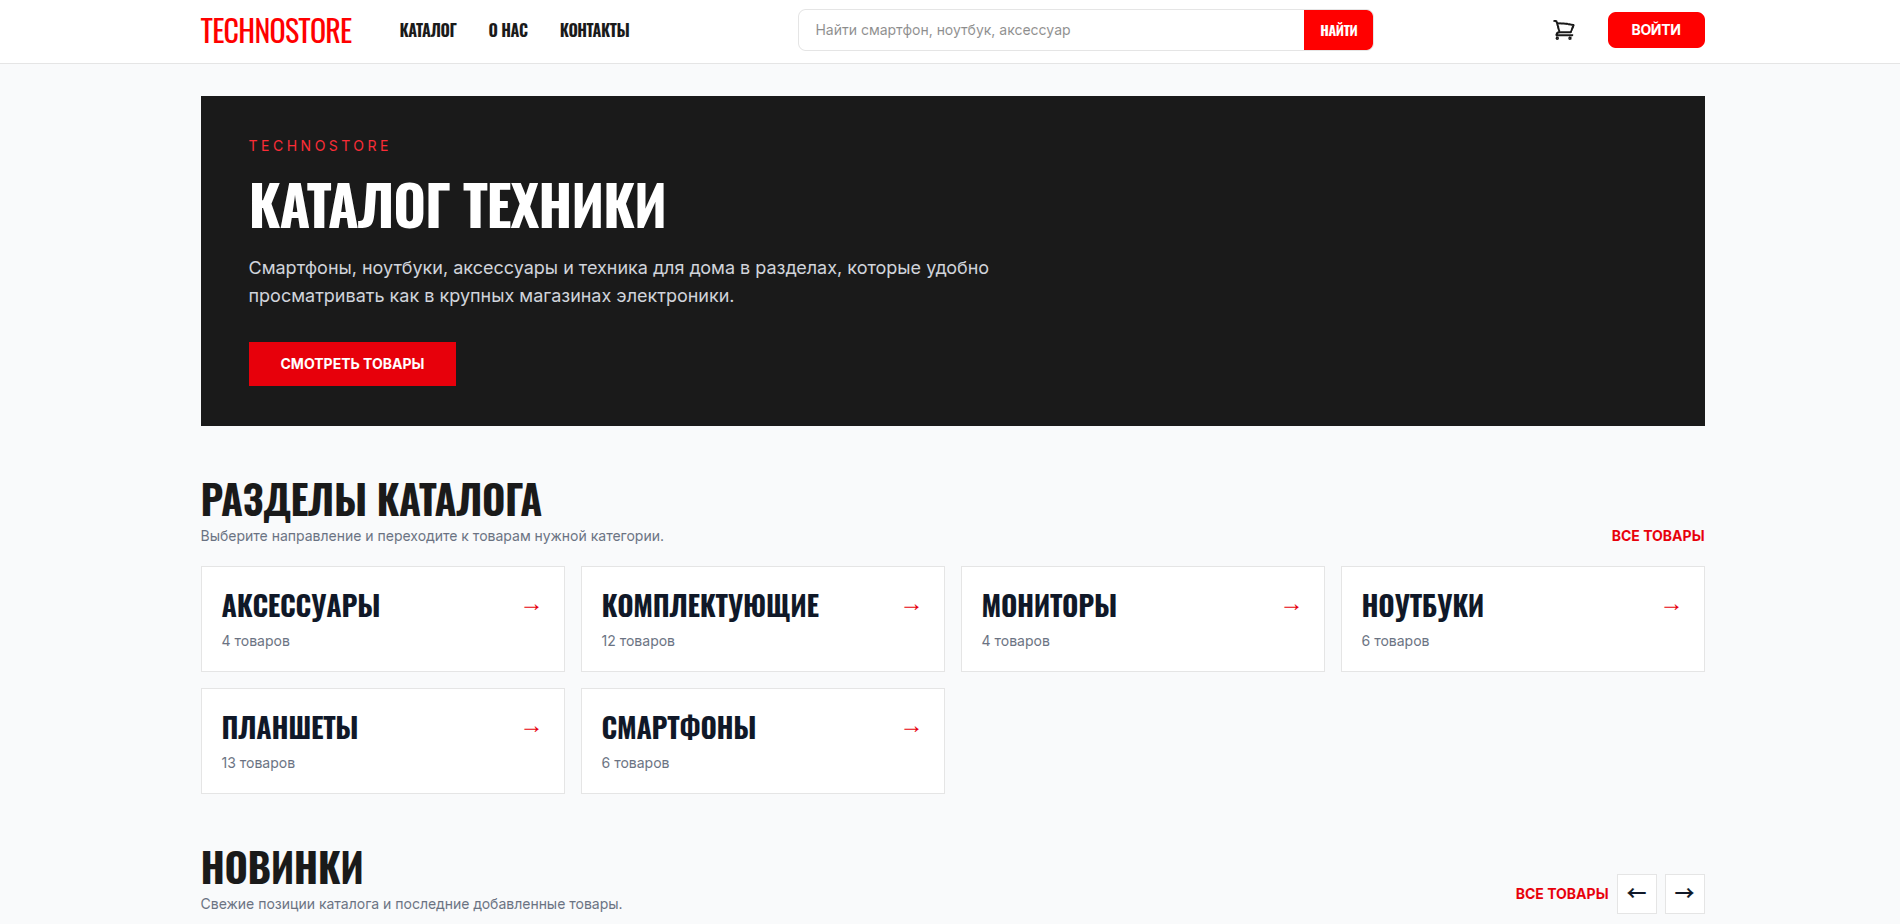
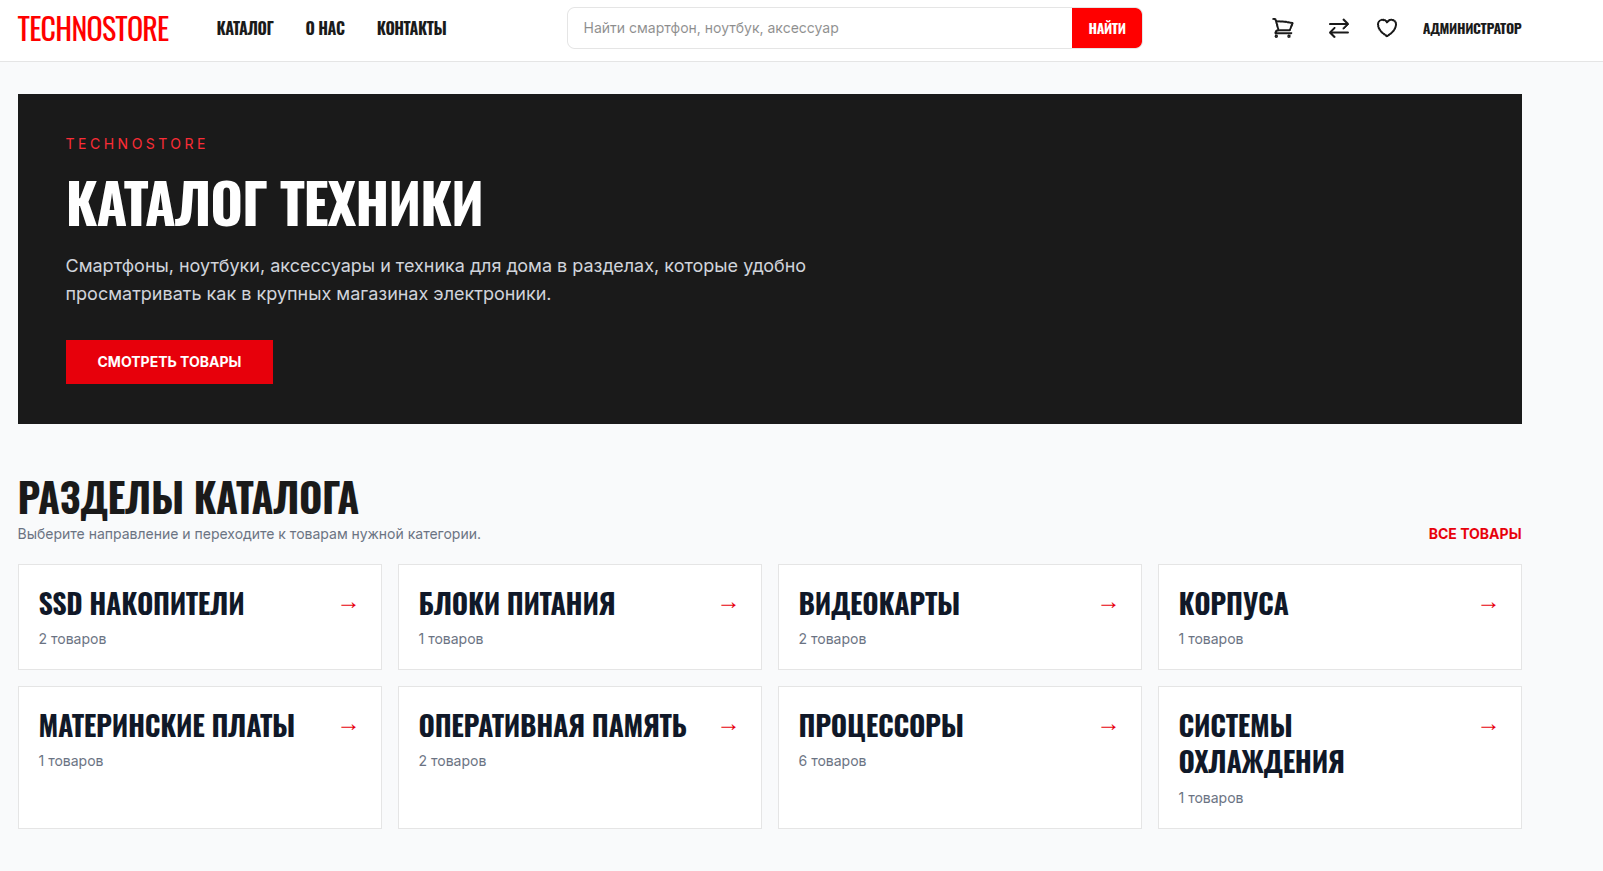
docs:update docs

diff --git a/docs/create_chapter3_variant1.js b/docs/create_chapter3_variant1.js
@@ -1,0 +1,219 @@
+const fs = require('fs');
+const {
+  Document, Packer, Paragraph, TextRun, Table, TableRow, TableCell,
+  AlignmentType, BorderStyle, WidthType, ShadingType, PageBreak,
+  PageNumber, Footer
+} = require('docx');
+
+const out = '/data/Projects/diplom/docs/thesis/3 глава 1 вариант.docx';
+const W = 9355;
+const border = { style: BorderStyle.SINGLE, size: 4, color: '000000' };
+const borders = { top: border, bottom: border, left: border, right: border };
+const body = [];
+
+function runs(text, opts = {}) {
+  const parts = String(text).split(/(\*[^*]+\*)/g).filter(Boolean);
+  return parts.map(part => new TextRun({
+    text: part.startsWith('*') && part.endsWith('*') ? part.slice(1, -1) : part,
+    italics: part.startsWith('*') && part.endsWith('*'),
+    font: 'Times New Roman', size: opts.size || 28, bold: opts.bold || false,
+    color: opts.color
+  }));
+}
+function p(text, opts = {}) {
+  body.push(new Paragraph({
+    alignment: opts.align || AlignmentType.JUSTIFIED,
+    spacing: { line: opts.line || 360, before: opts.before || 0, after: opts.after || 0 },
+    indent: opts.noIndent ? undefined : { firstLine: 709 },
+    pageBreakBefore: opts.pageBreakBefore || false,
+    keepNext: opts.keepNext || false,
+    children: runs(text, opts)
+  }));
+}
+function h1(text) { p(text.toUpperCase(), { align: AlignmentType.CENTER, bold: true, noIndent: true, after: 400, pageBreakBefore: true, keepNext: true }); }
+function h2(text) { p(text, { align: AlignmentType.CENTER, bold: true, noIndent: true, before: 240, after: 160, keepNext: true }); }
+function todo(text) { p(`TODO: ${text}`, { color: 'C00000' }); }
+function caption(text) { p(text, { align: AlignmentType.CENTER, noIndent: true, size: 24, line: 240, before: 120, after: 120 }); }
+function table(title, headers, rows, widths) {
+  caption(title);
+  const makeCell = (text, width, head = false) => new TableCell({
+    width: { size: width, type: WidthType.DXA }, borders,
+    shading: head ? { fill: 'E7E6E6', type: ShadingType.CLEAR } : undefined,
+    margins: { top: 70, bottom: 70, left: 90, right: 90 },
+    children: [new Paragraph({ alignment: head ? AlignmentType.CENTER : AlignmentType.LEFT, spacing: { line: 240 }, children: runs(text, { size: 24, bold: head }) })]
+  });
+  body.push(new Table({
+    width: { size: W, type: WidthType.DXA }, columnWidths: widths,
+    rows: [new TableRow({ tableHeader: true, children: headers.map((x, i) => makeCell(x, widths[i], true)) }), ...rows.map(r => new TableRow({ children: r.map((x, i) => makeCell(x, widths[i])) }))]
+  }));
+  p('', { noIndent: true, line: 240 });
+}
+
+h1('3 Реализация и тестирование программного продукта');
+h2('3.1 Описание реализации');
+p('Интернет-магазин электроники «TechnoStore» реализован как клиент-серверное веб-приложение на базе *Next.js*. В рамках одного проекта объединены пользовательские страницы, административная панель и серверные обработчики запросов. Такой способ организации позволил сохранить единый набор типов данных и сократить количество промежуточных преобразований между интерфейсом и серверной частью. Компоненты обмениваются данными по протоколу *HTTP* в формате *JSON*, а репозитории обращаются к реляционным данным через *Prisma* и систему управления базами данных *PostgreSQL* [6, 13, 14, 16, 17].');
+p('Реализация разделена на несколько уровней. Маршруты приложения принимают запросы и формируют ответы, сервисный слой выполняет бизнес-операции, а репозитории изолируют обращения к базе данных. Клиентские компоненты отвечают за интерактивные действия, которые невозможно выполнить только на сервере: изменение корзины без перезагрузки страницы, добавление товара в избранное и сравнение, отображение уведомлений. Состояния корзины, избранного и сравнения синхронизируются через хранилища *Zustand*.');
+todo('Вставить рисунок 3.1 — схема взаимодействия клиента, Route Handlers, сервисного слоя, репозиториев, PostgreSQL и Redis');
+caption('Рисунок 3.1 – Схема взаимодействия компонентов TechnoStore');
+p('Публичная часть приложения предоставляет каталог, поиск, страницы категорий и подробные карточки товаров. Каталог принимает параметры категории, бренда, диапазона цены, наличия, сортировки и поисковой строки. Для загрузки следующей части выдачи применяется курсорная пагинация. Курсор кодируется в формате *base64url* и содержит значения сортировки и идентификатор последней полученной записи. Такой подход сохраняет устойчивый порядок выдачи при добавлении новых товаров и не требует пропуска большого количества строк базы данных.');
+p('Характеристики товаров хранятся в поле типа *JSONB*. Это решение позволяет представлять разные наборы свойств для ноутбуков, смартфонов, мониторов и других категорий без создания отдельной таблицы для каждого типа техники. На клиенте те же данные используются для построения таблицы сравнения. В список сравнения разрешено добавить не более четырёх товаров одной категории, поэтому строки таблицы остаются содержательно сопоставимыми. Отличающиеся значения выделяются визуально, а режим «Только отличия» помогает быстрее найти значимые различия.');
+p('При добавлении товара в корзину сервер проверяет существование активного товара и допустимое количество. Корзина закреплена за авторизованным пользователем и хранится в базе данных, поэтому её содержимое не зависит от конкретного браузера. На странице оформления заказа итоговая стоимость и скидка рассчитываются сервером. Клиент передаёт данные получателя и, при наличии, код промокода, но не считается доверенным источником цены.');
+p('Создание заказа — критическая бизнес-операция. Оно выполняется в транзакции: загружается корзина, проверяется доступность товаров, повторно рассчитывается промокод, условно уменьшаются остатки, создаются заказ и его позиции, после чего корзина очищается. Уменьшение каждого остатка использует условие stock >= quantity. Если параллельный запрос уже приобрёл последние доступные единицы товара, операция не изменяет запись, а вся транзакция отменяется. Это предотвращает продажу количества, которого фактически нет на складе.');
+p('Для защиты от повторной отправки формы оформления применяется ключ идемпотентности. Вместе с ним сохраняется отпечаток входных данных. Повторный запрос с тем же ключом и тем же содержимым получает ранее созданный заказ; использование ключа с изменёнными данными отклоняется. Данное решение особенно важно при нестабильном соединении, когда пользователь или браузер может повторить запрос, не получив первый ответ.');
+p('Покупатель может отменить заказ, пока он находится в статусе «Новый». Смена статуса, возврат остатков и уменьшение счётчика использований промокода выполняются в одной транзакции. Повтор заказа работает иначе: текущая корзина заменяется доступными позициями выбранного заказа после проверки активности товаров и их остатка. Исторические цены при этом не переносятся, поскольку новая покупка должна учитывать текущую стоимость.');
+p('Для товаров, категорий и брендов используется мягкое удаление: вместо физического удаления заполняется дата deletedAt. Публичные запросы исключают такие записи, однако связи с ранее оформленными заказами сохраняются. Это особенно важно для корректного отображения истории покупок. Промокоды отключаются через признак активности по той же причине.');
+p('Часто запрашиваемые данные каталога кэшируются в *Redis*: дерево категорий, бренды, карточки товаров, списки товаров и параметры фильтров. Отказ кэша не должен останавливать магазин. Если сервис *Redis* временно недоступен, приложение загружает данные из основной базы. После административного изменения товара или справочника связанные ключи кэша инвалидируются. Одноразовые коды и ограничения частоты запросов, напротив, требуют доступного хранилища, поскольку относятся к безопасности входа.');
+p('Административная панель поддерживает управление товарами, категориями, брендами, заказами, отзывами и промокодами. Перед созданием или изменением товара сервер убеждается, что выбранные категория и бренд активны. Для дерева категорий проверяется отсутствие циклических связей. Категория не удаляется при наличии активных дочерних категорий или товаров, а бренд — при наличии активных товаров. Эти граничные условия не позволяют получить противоречивую структуру каталога.');
+p('Значимые административные операции фиксируются в журнале действий. Для изменения сущности сохраняются значения до и после операции, а для статуса заказа — предыдущий и новый статусы. Ошибка записи журнала не прерывает основную операцию, но регистрируется с контекстом. Журнал не удаляется вместе с учётной записью администратора, поэтому история изменений остаётся доступной для последующего анализа.');
+table('Таблица 3.1 – Основные группы серверных маршрутов', ['Группа', 'Примеры маршрутов', 'Назначение'], [
+ ['Авторизация', 'POST /api/auth/send-code; POST /api/auth/verify-code', 'Отправка и проверка одноразового кода, создание сессии'],
+ ['Каталог', 'GET /api/products; GET /api/products/filters', 'Поиск, фильтрация, сортировка и курсорная пагинация'],
+ ['Корзина и заказ', 'GET /api/cart; POST /api/orders', 'Управление корзиной и транзакционное оформление заказа'],
+ ['Вовлечение', 'GET /api/favorites; GET /api/compare; POST /api/products/[id]/reviews', 'Избранное, сравнение товаров и отзывы'],
+ ['Администрирование', '/api/admin/*', 'Управление сущностями магазина и получение статистики']
+], [1800, 3450, 4105]);
+p('Ошибки серверных маршрутов имеют единый формат с текстом, машинным кодом и необязательными деталями. Входные параметры маршрутов, строка запроса и тело запроса проверяются схемами *Zod*. Известные ошибки приложения преобразуются в соответствующие коды состояния *HTTP*, а неизвестные регистрируются на сервере и возвращаются клиенту без раскрытия внутренних подробностей. В результате интерфейс показывает понятное сообщение, а разработчику проще найти источник ошибки.');
+
+h2('3.2 Описание пользовательского интерфейса');
+p('Пользовательский интерфейс выполнен в минималистичном стиле интернет-магазина электроники. Основу цветовой схемы составляют белый фон, тёмный текст и красный акцент для основных действий. Для второстепенных элементов используются серые оттенки, состояние наличия обозначается зелёным цветом, а ошибки и опасные операции — красным. Интерфейс адаптируется к ширине экрана: сетка каталога содержит четыре столбца на широком экране, два на планшете и один на мобильном устройстве.');
+p('Главная страница выполняет роль витрины и знакомит посетителя с основным предложением магазина. На ней размещены главный рекламный блок, переход в каталог, популярные категории и преимущества покупки. Верхняя панель обеспечивает быстрый доступ к поиску, корзине, избранному, сравнению, профилю и входу. Поиск выводит подсказки после задержки ввода, отменяет устаревший запрос и поддерживает управление с клавиатуры.');
+todo('Вставить screenshots/main.png');
+caption('Рисунок 3.2 – Главная страница интернет-магазина');
+p('Страница каталога разделена на область фильтров и сетку товаров. Покупатель может выбрать категорию, бренд, диапазон цены, наличие и способ сортировки. Каждая карточка содержит изображение, название, цену, рейтинг, состояние наличия и кнопки пользовательских действий. При загрузке следующей части каталога ранее полученные карточки сохраняются на странице. Для пустой выборки, загрузки и ошибки предусмотрены самостоятельные состояния интерфейса.');
+todo('Вставить screenshots/catalog.png');
+caption('Рисунок 3.3 – Каталог товаров с фильтрами');
+p('Подробная страница товара объединяет галерею, цену, описание, характеристики, доступный остаток, рейтинг и отзывы. Добавление в корзину, избранное и сравнение выполняется без перехода на отдельную страницу. Если действие требует учётной записи, посетитель направляется на форму входа, а после успешного подтверждения номера возвращается к исходному маршруту.');
+todo('Вставить screenshots/product-card.png');
+caption('Рисунок 3.4 – Подробная страница товара');
+p('Корзина показывает выбранные позиции, цену, количество, доступный остаток, промежуточную стоимость и общую сумму. Количество изменяется непосредственно в строке товара. Отдельные действия позволяют удалить позицию, очистить корзину или перейти к оформлению. Интерфейс обновляется сразу, но окончательная проверка количества всегда выполняется сервером.');
+todo('Вставить screenshots/cart.png');
+caption('Рисунок 3.5 – Корзина покупателя');
+p('Форма оформления заказа содержит имя получателя, телефон, адрес, комментарий и поле промокода. Справа расположен итоговый блок со списком товаров, суммой до скидки, размером скидки и суммой к оплате. Выбран способ оплаты наличными при получении. После успешного оформления пользователь переходит к деталям созданного заказа, а локальное состояние корзины очищается.');
+todo('Вставить screenshots/checkout.png');
+caption('Рисунок 3.6 – Оформление заказа');
+p('Личный кабинет включает профиль и историю заказов. В профиле редактируются имя и адрес, который затем используется для предварительного заполнения формы заказа. В истории отображаются номер, дата, статус, состав и сумма каждого заказа. На странице деталей доступны отмена нового заказа и повтор заказа. Эти действия показываются только тогда, когда соответствующая операция допустима.');
+todo('Вставить screenshots/orders.png и screenshots/profile.png');
+caption('Рисунок 3.7 – История заказов и профиль покупателя');
+p('Вход и регистрация построены вокруг подтверждения номера телефона одноразовым кодом. В демонстрационном режиме код отображается в интерфейсе, что позволяет проверить полный сценарий без платного поставщика сообщений. Форма сообщает об ошибочном формате номера, неверном коде и превышении лимита попыток.');
+todo('Вставить screenshots/login.png и screenshots/register.png');
+caption('Рисунок 3.8 – Формы входа и регистрации');
+p('Административная панель визуально отделена от публичной части и содержит боковую навигацию. Дашборд показывает количество активных товаров, заказов, пользователей, выручку по доставленным заказам и последние заказы. Табличные разделы дают доступ к созданию и редактированию сущностей, фильтрации заказов, модерации отзывов и управлению промокодами. Журнал действий отображает администратора, время, действие, сущность и технические данные операции.');
+todo('Вставить screenshots/admin.png, screenshots/admin-products.png и screenshots/admin-logs.png');
+caption('Рисунок 3.9 – Административная панель и журнал действий');
+p('Для неизвестного маршрута разработана отдельная страница ошибки 404 с понятным сообщением и переходом на главную страницу. Такое состояние завершает навигационный сценарий и не оставляет пользователя на стандартной технической странице среды выполнения.');
+todo('Вставить screenshots/404.png');
+caption('Рисунок 3.10 – Страница отсутствующего ресурса');
+
+h2('3.3 Полученные результаты и их анализ');
+p('Результатом разработки является работоспособное веб-приложение интернет-магазина электроники, охватывающее полный цикл покупки: поиск товара, изучение характеристик, авторизацию, формирование корзины, применение промокода, оформление и последующее управление заказом. Для администратора реализован отдельный защищённый контур управления ассортиментом и операциями магазина.');
+table('Таблица 3.2 – Реализованные возможности по ролям', ['Роль', 'Основные возможности', 'Ограничения доступа'], [
+ ['Посетитель', 'Главная страница, каталог, поиск, категории, карточки товаров', 'Не может использовать персональные данные и оформлять заказ'],
+ ['Покупатель', 'Корзина, оформление, профиль, заказы, избранное, сравнение, отзывы', 'Работает только со своими данными и заказами'],
+ ['Администратор', 'CRUD каталога, заказы, отзывы, промокоды, пользователи, журнал', 'Доступ подтверждается актуальной ролью из базы данных']
+], [1600, 5000, 2755]);
+p('Всего приложение содержит публичные, защищённые пользовательские и административные страницы, а также более пятидесяти обработчиков и страниц, формируемых статически или динамически. Проверенная производственная сборка сформировала 55 маршрутов. Система поддерживает древовидные категории, динамические характеристики, четыре варианта сортировки каталога, два типа скидок и шесть статусов заказа.');
+p('Практическая ценность результата связана не с отдельной витриной, а с согласованностью пользовательских и административных процессов. Например, изменение статуса заказа подчиняется допустимым переходам и фиксируется в журнале; отмена возвращает остатки и использование промокода; мягкое удаление не разрушает историю. Такие связи уменьшают вероятность расхождения данных при повседневной эксплуатации.');
+p('Выбранная архитектура допускает дальнейшее развитие без замены основных модулей. К возможным направлениям относятся подключение онлайн-оплаты, расширение автоматизированного тестирования, строгая политика защиты межсайтовых запросов, мониторинг производственной среды, мультиязычность и расширенная аналитика. При этом текущая версия уже решает поставленную задачу локального интернет-магазина с оплатой наличными при получении.');
+
+h2('3.4 Методы и средства защиты программного продукта');
+p('Защита TechnoStore строится на нескольких независимых уровнях. Пользователь идентифицируется по номеру телефона, а владение номером подтверждается шестизначным одноразовым кодом. Код хранится не в открытом виде: перед сохранением вычисляется хэш *SHA-256*, а сравнение выполняется функцией с постоянным временем. После успешной проверки использованный код удаляется. Ограничение частоты отправки и проверки по телефону и сетевому адресу снижает возможность перебора и злоупотребления отправкой сообщений.');
+p('После входа сервер создаёт подписанный токен *JWT* и помещает его в cookie с признаками httpOnly, sameSite strict и secure в производственной среде. Признак httpOnly препятствует чтению токена клиентским сценарием, а sameSite ограничивает его автоматическую отправку в межсайтовом контексте [12, 15]. Время жизни сессии составляет 30 дней. Выход из учётной записи удаляет cookie.');
+p('Разграничение доступа реализовано для трёх ролей: посетителя, покупателя и администратора. Защищённые страницы проверяются промежуточным обработчиком, а серверные маршруты дополнительно вызывают проверки авторизации. Для административных операций роль загружается из базы данных, а не принимается только из токена. Поэтому изменение роли начинает действовать даже при наличии ранее выданной сессии.');
+p('Все изменяющие запросы проходят проверку источника. Запрос с посторонним заголовком Origin или Referer отклоняется. Для совместимости с серверными клиентами запрос без обоих заголовков допускается, что является осознанным ограничением текущей версии. В производственной среде ответы дополняются заголовками защиты от определения типа содержимого, встраивания страницы во фрейм и избыточной передачи источника перехода; также включается *HSTS*.');
+p('Серверная валидация применяется независимо от элементов управления на клиенте. Проверяются идентификаторы, параметры пагинации, диапазоны цены, телефон, одноразовый код, поля заказа и данные административных форм. Работа через *Prisma* уменьшает необходимость ручного формирования SQL-запросов. На уровне базы данных дополнительно заданы внешние ключи, уникальные ограничения и проверки неотрицательных цены и остатка [15–17].');
+p('Защита целостности бизнес-данных обеспечивается транзакциями, условными обновлениями и идемпотентностью. Транзакция не допускает частично созданный заказ, условие по остатку предотвращает перепродажу, а условие по текущему статусу защищает заказ от конфликтующих переходов. Мягкое удаление и административный аудит сохраняют сведения, необходимые для расследования спорных изменений.');
+table('Таблица 3.3 – Реализованные механизмы защиты', ['Механизм', 'Назначение'], [
+ ['JWT в httpOnly cookie', 'Снижает риск доступа к токену из клиентского JavaScript'],
+ ['Проверка актуальной роли', 'Не позволяет использовать устаревшие полномочия из токена'],
+ ['Zod-валидация', 'Отклоняет некорректные параметры и тела запросов'],
+ ['Проверка источника запроса', 'Отклоняет изменяющие запросы с посторонних сайтов'],
+ ['Ограничение частоты запросов и хэширование SMS-кодов', 'Ограничивает перебор и не хранит код открытым'],
+ ['Транзакции и идемпотентность', 'Защищает оформление заказа от частичной и повторной записи'],
+ ['Защитные HTTP-заголовки', 'Усиливает защиту браузерного взаимодействия'],
+ ['Мягкое удаление и аудит', 'Сохраняет историю сущностей и административных действий']
+], [3100, 6255]);
+
+h2('3.5 Тестирование и оценка надежности программного продукта');
+p('Проверка программного продукта проводилась на трёх уровнях: статический анализ и модульные тесты, производственная сборка, ручное прохождение пользовательских и административных сценариев. Такой порядок позволяет сначала обнаружить локальные ошибки типов и функций, затем проверить совместимость всех модулей при сборке и после этого оценить систему с позиции пользователя.');
+table('Таблица 3.4 – Результаты автоматических проверок', ['Проверка', 'Средство', 'Результат'], [
+ ['Типизация', 'TypeScript compiler', 'Пройдена, ошибок типов нет'],
+ ['Статический анализ', 'ESLint', 'Пройден, ошибок правил нет'],
+ ['Модульные тесты', 'Bun test', '29 тестов пройдено, 0 ошибок'],
+ ['Общая проверка', 'bun run check', 'Пройдена'],
+ ['Производственная сборка', 'next build', 'Пройдена, сформировано 55 маршрутов']
+], [2500, 3000, 3855]);
+p('Модульные тесты проверяют кодирование и декодирование курсора, безопасный адрес возврата после входа, проверку источника запроса, единое преобразование серверных ошибок и переходы статусов заказа. В тестах учитываются как допустимые значения, так и граничные случаи: курсор старого формата, внешний адрес возврата, посторонний Origin, неизвестная серверная ошибка и попытка изменить завершённый заказ.');
+table('Таблица 3.5 – Результаты ручного тестирования', ['№', 'Сценарий', 'Ожидаемый результат', 'Статус'], [
+ ['1', 'Вход через демонстрационный SMS-код', 'Пользователь авторизован и возвращён на исходную страницу', 'Пройден'],
+ ['2', 'Каталог, фильтрация и продолжение выдачи', 'Выдача обновляется, ранее загруженные товары сохраняются', 'Пройден'],
+ ['3', 'Добавление товара в корзину', 'Товар появляется в корзине', 'Пройден'],
+ ['4', 'Изменение количества', 'Количество и итоговая сумма обновляются', 'Пройден'],
+ ['5', 'Применение промокода', 'Скидка отображается в оформлении заказа', 'Пройден'],
+ ['6', 'Оформление заказа', 'Создаётся один заказ, корзина очищается', 'Пройден'],
+ ['7', 'Просмотр и отмена заказа', 'Детали доступны, допустимый заказ отменяется', 'Пройден'],
+ ['8', 'Повтор заказа', 'Доступные товары добавляются в корзину', 'Пройден'],
+ ['9', 'Избранное, сравнение и отзыв', 'Персональные действия выполняются после входа', 'Пройден'],
+ ['10', 'Административный CRUD', 'Администратор управляет товарами, категориями и брендами', 'Пройден'],
+ ['11', 'Изменение статуса заказа', 'Разрешённый переход применяется и записывается в аудит', 'Пройден'],
+ ['12', 'Журнал действий', 'Отображаются действие, администратор, сущность, время и данные', 'Пройден']
+], [450, 2600, 4750, 1555]);
+p('В процессе разработки были обнаружены и устранены дефекты, затрагивающие надёжность. Первоначальный курсор мог некорректно разделяться при наличии двоеточия в значении; формат был заменён на сериализацию *JSON* и *base64url* с поддержкой ранее созданных курсоров. Повторная отправка оформления могла создать дублирующий заказ, поэтому были введены ключ идемпотентности, отпечаток данных и уникальное ограничение. Обработка конфликта уникальности была вынесена за пределы отменённой транзакции, так как после ошибки *PostgreSQL* транзакция может перейти в состояние отказа.');
+p('Также были унифицированы ответы изменяющих маршрутов, приведён к одному виду безопасный параметр возврата после входа, исключён запуск заполнения базы из команды производственной сборки и добавлен статический резервный вариант карты сайта при недоступной базе. Эти исправления уменьшают влияние сетевых повторов, ошибочной конфигурации и временной недоступности внешних ресурсов.');
+p('Надёжность кэша повышена за счёт деградации: отказ *Redis* для каталога увеличивает нагрузку на базу, но не останавливает просмотр товаров. Транзакции обеспечивают целостность заказа, а мягкое удаление сохраняет исторические связи. Вместе с тем полный набор интеграционных тестов с отдельными экземплярами *PostgreSQL* и *Redis*, автоматизированные сквозные тесты, нагрузочное тестирование и производственный мониторинг остаются направлениями дальнейшей работы.');
+
+h2('3.6 Расчет себестоимости от внедрения результатов выпускной квалификационной работы бакалавра');
+p('Себестоимость разработки рассчитана в рублях Приднестровской Молдавской Республики. Для стоимостей, обычно указываемых в долларах США, принят заданный курс: 1 доллар США равен 16 рублям ПМР. Расчёт носит учебный характер и отражает затраты на создание и подготовку первой версии продукта к внедрению.');
+p('Основную часть затрат составляет труд разработчика. Принята продолжительность 420 часов и расчётная ставка 45 рублей ПМР в час. Кроме оплаты труда учтены амортизация рабочего компьютера, электроэнергия, доступ к сети, регистрация доменного имени, резерв на отправку SMS и прочие расходы. Использование свободных тарифов Vercel, Vercel Postgres и Upstash Redis на этапе демонстрации не требует отдельной оплаты, однако для внедрения предусмотрен резерв облачных расходов.');
+table('Таблица 3.6 – Расчёт затрат на разработку', ['Статья затрат', 'Расчёт', 'Сумма, руб. ПМР'], [
+ ['Труд разработчика', '420 ч × 45 руб./ч', '18 900'],
+ ['Амортизация компьютера', 'Расчётная доля за период разработки', '1 200'],
+ ['Электроэнергия', '0,15 кВт × 420 ч × 1,20 руб./кВт·ч', '76'],
+ ['Доступ к сети Интернет', '4 месяца × 120 руб.', '480'],
+ ['Доменное имя', '20 долл. × 16 руб.', '320'],
+ ['Резерв облачной инфраструктуры', '25 долл. × 16 руб.', '400'],
+ ['Резерв SMS-сообщений', '50 долл. × 16 руб.', '800'],
+ ['Прочие расходы', 'Расчётный резерв', '500'],
+ ['Итого', '—', '22 676']
+], [3400, 3650, 2305]);
+p('Экономический эффект внедрения связан прежде всего с сокращением ручной работы сотрудника магазина. Единый каталог, серверный учёт корзин и заказов, изменение статусов, контроль остатков и журнал действий уменьшают время на повторный ввод данных и поиск информации. Для осторожной оценки принято сокращение административных затрат на 30 часов в месяц при той же расчётной стоимости часа 45 рублей ПМР.');
+p('Годовая экономия составляет 30 × 45 × 12 = 16 200 рублей ПМР. При себестоимости разработки 22 676 рублей ПМР простой срок окупаемости равен 22 676 / 16 200 × 12 ≈ 16,8 месяца. Расчёт не учитывает возможное увеличение продаж за счёт удобного каталога и оформления заказа, поэтому полученная оценка является консервативной.');
+table('Таблица 3.7 – Оценка экономического эффекта', ['Показатель', 'Значение'], [
+ ['Себестоимость разработки', '22 676 руб. ПМР'],
+ ['Экономия рабочего времени', '30 ч в месяц'],
+ ['Расчётная стоимость часа', '45 руб. ПМР'],
+ ['Годовая экономия', '16 200 руб. ПМР'],
+ ['Простой срок окупаемости', 'около 16,8 месяца']
+], [5700, 3655]);
+
+h2('3.7 Охрана труда');
+p('При разработке и эксплуатации интернет-магазина основная работа выполняется за персональным компьютером. К вредным и опасным факторам относятся повышенная нагрузка на зрение, недостаточная освещённость рабочей зоны, статическая нагрузка на опорно-двигательный аппарат, электромагнитное воздействие оборудования и психоэмоциональное напряжение. Их учёт необходим как для разработчика, так и для сотрудника, использующего административную панель продолжительное время [8, 9].');
+p('Рабочее место должно обеспечивать устойчивое и удобное положение пользователя. Расстояние от глаз до экрана рекомендуется поддерживать в пределах 50–70 см, верхнюю границу экрана располагать на уровне глаз или немного ниже. Клавиатуру следует размещать на расстоянии 10–15 см от края стола. Монитор устанавливают так, чтобы на экране не возникали блики от окна и источников искусственного освещения.');
+table('Таблица 3.8 – Требования к организации рабочего места', ['Параметр', 'Рекомендуемое значение'], [
+ ['Расстояние от глаз до экрана', '50–70 см'],
+ ['Положение экрана', 'Перпендикулярно оконному проёму, без бликов'],
+ ['Расположение клавиатуры', '10–15 см от края стола'],
+ ['Положение пользователя', 'Опора спины, стопы на полу или подставке'],
+ ['Освещение', 'Равномерное, без резкого контраста и ослепления']
+], [4400, 4955]);
+p('Для снижения утомляемости непрерывную работу за монитором следует чередовать с перерывами. После каждого часа рекомендуется делать перерыв продолжительностью 10–15 минут, менять фокус зрения, выполнять движения глазами и разминку для шеи и спины. Помещение необходимо регулярно проветривать. Такой режим уменьшает зрительное напряжение и последствия длительной статической позы.');
+p('Помещение с вычислительной техникой относится к помещениям без повышенной опасности при условии сухого воздуха, токонепроводящих полов и исправной электропроводки. Розетки должны иметь защитное заземление. Запрещается использовать оборудование с повреждённой изоляцией, самостоятельно вскрывать блоки питания и подключать чрезмерное количество устройств через неподходящие удлинители.');
+p('Для обеспечения пожарной безопасности необходимо содержать проходы свободными, не допускать курения и использования открытого огня, следить за соответствием электропроводки фактической нагрузке. В помещении должен находиться исправный порошковый или углекислотный огнетушитель, доступный без перемещения мебели и оборудования. При появлении запаха горелой изоляции устройство следует немедленно обесточить и сообщить ответственному лицу.');
+p('Соблюдение перечисленных требований снижает вероятность профессионального утомления, поражения электрическим током и возникновения пожара. Требования охраны труда не зависят от того, выполняется ли работа с исходным кодом или через административную панель: определяющим фактором остаётся продолжительная работа с персональным компьютером [8, 9].');
+
+h2('3.8 Выводы');
+p('В третьей главе описана реализация интернет-магазина электроники «TechnoStore», его пользовательский интерфейс, механизмы защиты и результаты тестирования. Разработанный продукт объединяет публичную витрину, защищённый личный кабинет покупателя и административную панель. Основные бизнес-операции реализованы на сервере и не зависят от доверия к данным клиента.');
+p('Особое внимание уделено целостности данных. Транзакционное оформление и отмена заказа, условное уменьшение остатков, идемпотентность, мягкое удаление и административный аудит уменьшают вероятность дублирования, перепродажи и потери исторической информации. Кэширование ускоряет повторные запросы каталога, а предусмотренная деградация сохраняет доступность витрины при отказе кэша.');
+p('Механизмы защиты включают вход по одноразовому коду, хэширование кодов, ограничение частоты запросов, подписанный токен в httpOnly cookie, проверку актуальной роли администратора, серверную валидацию, проверку источника изменяющих запросов и защитные заголовки. Они дополняют друг друга и закрывают наиболее значимые угрозы для текущего функционального объёма [12, 15].');
+p('Автоматическая проверка типов, статический анализ, 29 модульных тестов, производственная сборка и ручное прохождение двенадцати основных сценариев завершены успешно. Расчётная себестоимость разработки составила 22 676 рублей ПМР, а простой срок окупаемости за счёт сокращения административных затрат оценивается примерно в 16,8 месяца. Также сформулированы требования охраны труда при продолжительной работе с персональным компьютером.');
+
+const doc = new Document({
+  styles: {
+    default: { document: { run: { font: 'Times New Roman', size: 28 }, paragraph: { spacing: { line: 360 }, alignment: AlignmentType.JUSTIFIED } } },
+  },
+  sections: [{
+    properties: { page: { size: { width: 11906, height: 16838 }, margin: { top: 1134, right: 567, bottom: 1134, left: 1701 } } },
+    footers: { default: new Footer({ children: [new Paragraph({ alignment: AlignmentType.RIGHT, children: [new TextRun({ children: [PageNumber.CURRENT], font: 'Times New Roman', size: 24 })] })] }) },
+    children: body
+  }]
+});
+Packer.toBuffer(doc).then(buf => { fs.writeFileSync(out, buf); console.log(out); });

diff --git a/docs/create_terms.js b/docs/create_terms.js
@@ -1,0 +1,59 @@
+const fs = require('fs');
+const { Document, Packer, Paragraph, TextRun, AlignmentType, PageNumber, Footer } = require('docx');
+const out = '/data/Projects/diplom/docs/thesis/перечень-условных-обозначений.docx';
+const items = [
+  ['API', 'Application Programming Interface (программный интерфейс приложения).'],
+  ['CRUD', 'Create, Read, Update, Delete (операции создания, чтения, изменения и удаления данных).'],
+  ['CSS', 'Cascading Style Sheets (каскадные таблицы стилей).'],
+  ['HTTP', 'HyperText Transfer Protocol (протокол передачи гипертекста).'],
+  ['HTTPS', 'HyperText Transfer Protocol Secure (защищённый протокол передачи гипертекста).'],
+  ['JSON', 'JavaScript Object Notation (текстовый формат обмена структурированными данными).'],
+  ['JSONB', 'двоичный формат хранения JSON-данных в системе управления базами данных PostgreSQL.'],
+  ['JWT', 'JSON Web Token (подписанный токен для передачи данных авторизации).'],
+  ['ORM', 'Object-Relational Mapping (объектно-реляционное отображение данных).'],
+  ['REST', 'Representational State Transfer (архитектурный стиль взаимодействия компонентов веб-приложения).'],
+  ['SHA-256', 'Secure Hash Algorithm 256-bit (алгоритм криптографического хэширования).'],
+  ['SMS', 'Short Message Service (служба коротких сообщений).'],
+  ['SQL', 'Structured Query Language (язык структурированных запросов).'],
+  ['URL', 'Uniform Resource Locator (адрес ресурса в сети).'],
+  ['БД', 'база данных.'],
+  ['ВКРБ', 'выпускная квалификационная работа бакалавра.'],
+  ['ПМР', 'Приднестровская Молдавская Республика.'],
+  ['СУБД', 'система управления базами данных.'],
+  ['Аутентификация', 'проверка личности пользователя на основании предъявленных учётных данных.'],
+  ['Авторизация', 'определение и предоставление прав доступа аутентифицированному пользователю.'],
+  ['Идемпотентность', 'свойство операции, при котором её повторное выполнение с теми же данными не изменяет результат после первого успешного выполнения.'],
+  ['Кэширование', 'временное хранение часто запрашиваемых данных для ускорения повторного доступа.'],
+  ['Курсорная пагинация', 'способ постраничной загрузки, при котором следующая часть данных запрашивается относительно последней полученной записи.'],
+  ['Мягкое удаление', 'исключение записи из активных данных без её физического удаления из базы данных.'],
+  ['Транзакция', 'последовательность операций с базой данных, выполняемая как единое целое.']
+];
+function textRuns(term, definition) {
+  return [
+    new TextRun({ text: term, font: 'Times New Roman', size: 28, bold: false }),
+    new TextRun({ text: ' — ' + definition, font: 'Times New Roman', size: 28 })
+  ];
+}
+const children = [
+  new Paragraph({
+    alignment: AlignmentType.CENTER,
+    spacing: { line: 360, after: 400 },
+    pageBreakBefore: true,
+    children: [new TextRun({ text: 'ПЕРЕЧЕНЬ УСЛОВНЫХ ОБОЗНАЧЕНИЙ, СИМВОЛОВ, ЕДИНИЦ И ТЕРМИНОВ', font: 'Times New Roman', size: 28, bold: true })]
+  }),
+  ...items.map(([term, definition]) => new Paragraph({
+    alignment: AlignmentType.JUSTIFIED,
+    spacing: { line: 360 },
+    indent: { firstLine: 709 },
+    children: textRuns(term, definition)
+  }))
+];
+const doc = new Document({
+  styles: { default: { document: { run: { font: 'Times New Roman', size: 28 }, paragraph: { spacing: { line: 360 }, alignment: AlignmentType.JUSTIFIED } } } },
+  sections: [{
+    properties: { page: { size: { width: 11906, height: 16838 }, margin: { top: 1134, right: 850, bottom: 1134, left: 1701 } } },
+    footers: { default: new Footer({ children: [new Paragraph({ alignment: AlignmentType.RIGHT, children: [new TextRun({ children: [PageNumber.CURRENT], font: 'Times New Roman', size: 24 })] })] }) },
+    children
+  }]
+});
+Packer.toBuffer(doc).then(buf => { fs.writeFileSync(out, buf); console.log(out); });

diff --git a/docs/create_conclusion.js b/docs/create_conclusion.js
@@ -1,0 +1,42 @@
+const fs = require('fs');
+const { Document, Packer, Paragraph, TextRun, AlignmentType, PageNumber, Footer } = require('docx');
+const out = '/data/Projects/diplom/docs/thesis/заключение.docx';
+const body = [];
+function runs(text, opts = {}) {
+  return String(text).split(/(\*[^*]+\*)/g).filter(Boolean).map(part => new TextRun({
+    text: part.startsWith('*') && part.endsWith('*') ? part.slice(1, -1) : part,
+    italics: part.startsWith('*') && part.endsWith('*'), font: 'Times New Roman', size: 28,
+    bold: opts.bold || false
+  }));
+}
+function p(text, opts = {}) {
+  body.push(new Paragraph({
+    alignment: opts.align || AlignmentType.JUSTIFIED,
+    spacing: { line: 360, before: opts.before || 0, after: opts.after || 0 },
+    indent: opts.noIndent ? undefined : { firstLine: 709 },
+    pageBreakBefore: opts.pageBreakBefore || false,
+    children: runs(text, opts)
+  }));
+}
+p('ЗАКЛЮЧЕНИЕ', { align: AlignmentType.CENTER, bold: true, noIndent: true, pageBreakBefore: true, after: 400 });
+p('В результате выполнения выпускной квалификационной работы разработано веб-приложение интернет-магазина электроники «TechnoStore», ориентированное на локальный рынок Приднестровской Молдавской Республики. Поставленная цель достигнута: создан программный продукт, который охватывает путь покупателя от поиска и сравнения техники до оформления заказа, а также предоставляет сотруднику магазина инструменты для управления ассортиментом и заказами.');
+p('В ходе исследования предметной области были рассмотрены особенности электронной торговли и существующие интернет-магазины электроники. Анализ показал, что покупателю недостаточно видеть только название, фотографию и цену товара. При выборе техники важны точные характеристики, фильтры, сравнение моделей, сведения о наличии, отзывы и сохранение персональных данных между посещениями. Для магазина не менее важны согласованное управление каталогом, контроль остатков и возможность проследить административные изменения [3, 5, 10, 11, 20]. Эти наблюдения определили функциональный объём TechnoStore.');
+p('На этапе проектирования была сформирована клиент-серверная архитектура с разделением серверных маршрутов, сервисной логики и доступа к данным. Для реализации использованы *Next.js*, *React*, *TypeScript*, *Prisma*, *PostgreSQL* и *Redis*. Выбор единого типизированного стека упростил согласование интерфейса с серверной частью, а выделение сервисов и репозиториев помогло не смешивать правила оформления заказа с обработкой HTTP-запросов и запросами к базе данных [2, 4, 6, 13, 14, 16–19].');
+p('В пользовательской части реализованы главная страница, каталог с поиском, фильтрацией и сортировкой, карточка товара, избранное, сравнение, отзывы, корзина, оформление заказа, история заказов и профиль. Авторизация выполняется по номеру телефона и одноразовому коду. Для демонстрационной версии код отображается в интерфейсе, однако архитектура допускает подключение внешнего поставщика SMS. Оплата производится наличными при получении. Для первой версии проекта этого достаточно, а интеграцию платёжного шлюза можно выполнить позднее.');
+p('Административная панель позволяет управлять товарами, категориями, брендами, заказами, промокодами и отзывами. Администратор видит статистику магазина, пользователей и журнал действий. На мой взгляд, журнал является особенно полезной частью проекта: он показывает не только текущее состояние данных, но и то, кто и когда изменял значимые сущности. Это упрощает разбор спорных ситуаций и делает работу административной части прозрачнее.');
+p('При реализации основное внимание уделялось не количеству страниц, а корректности связанных операций. Заказ создаётся транзакционно, остатки уменьшаются условным обновлением, а повторная отправка формы не должна приводить к появлению дубликата. Отмена заказа возвращает товары на склад и корректирует использование промокода. Мягкое удаление сохраняет исторические связи, поэтому удалённый из каталога товар продолжает отображаться в ранее оформленном заказе. Без этих механизмов интерфейс мог бы выглядеть завершённым, но данные магазина быстро потеряли бы согласованность.');
+p('Для защиты приложения реализованы хэширование одноразовых кодов, ограничение частоты запросов, хранение подписанного токена в httpOnly cookie, серверная проверка актуальной роли администратора, валидация входных данных, проверка источника изменяющих запросов и защитные HTTP-заголовки. Транзакции, идемпотентность и административный аудит дополняют классические механизмы авторизации, поскольку для интернет-магазина важно защищать не только учётную запись, но и целостность заказа [12, 15].');
+p('Работоспособность программного продукта подтверждена автоматическими и ручными проверками. Проверка типов, статический анализ и производственная сборка завершились успешно. Все 29 модульных тестов пройдены без ошибок. Кроме того, вручную проверены двенадцать основных сценариев: вход, работа с каталогом, корзиной и промокодом, оформление, отмена и повтор заказа, избранное, сравнение, отзывы, административные операции и журнал действий. Обнаруженные в ходе разработки дефекты, связанные с курсором пагинации, повторным созданием заказа, обработкой ошибок и производственной сборкой, были устранены.');
+p('Расчётная себестоимость разработки составила 22 676 рублей ПМР. При сокращении административной работы на 30 часов в месяц и расчётной стоимости часа 45 рублей ПМР простой срок окупаемости оценивается примерно в 16,8 месяца. Этот расчёт не учитывает возможное увеличение продаж за счёт удобного каталога и оформления заказа, поэтому отражает осторожную оценку экономического эффекта. Также были рассмотрены требования охраны труда при продолжительной работе с персональным компьютером [8, 9].');
+p('Практическая значимость результата состоит в том, что TechnoStore является не макетом отдельных страниц, а законченным приложением с общей базой данных и согласованными пользовательскими и административными процессами. Покупатель может самостоятельно подобрать технику и оформить заказ, а сотрудник магазина получает средства для дальнейшей обработки этого заказа. Разработанное решение можно использовать как основу для запуска локального интернет-магазина после настройки производственной инфраструктуры, реального SMS-провайдера и наполнения каталога.');
+p('Дальнейшее развитие проекта целесообразно начать с подключения онлайн-оплаты, расширения интеграционных и сквозных тестов, настройки более строгой политики защиты межсайтовых запросов и мониторинга производственной среды. Полезными дополнениями могут стать мультиязычность, уведомления об изменении статуса заказа, расширенная аналитика и отдельные инструменты складского учёта. Текущая архитектура позволяет добавлять эти функции постепенно, не переписывая основной цикл покупки.');
+p('Итогом работы стал программный продукт, который решает поставленную задачу и демонстрирует полный цикл разработки информационной системы: анализ предметной области, проектирование архитектуры и базы данных, реализация интерфейса и серверной логики, защита, тестирование и оценка результата.');
+const doc = new Document({
+  styles: { default: { document: { run: { font: 'Times New Roman', size: 28 }, paragraph: { spacing: { line: 360 }, alignment: AlignmentType.JUSTIFIED } } } },
+  sections: [{
+    properties: { page: { size: { width: 11906, height: 16838 }, margin: { top: 1134, right: 850, bottom: 1134, left: 1701 } } },
+    footers: { default: new Footer({ children: [new Paragraph({ alignment: AlignmentType.RIGHT, children: [new TextRun({ children: [PageNumber.CURRENT], font: 'Times New Roman', size: 24 })] })] }) },
+    children: body
+  }]
+});
+Packer.toBuffer(doc).then(buf => { fs.writeFileSync(out, buf); console.log(out); });